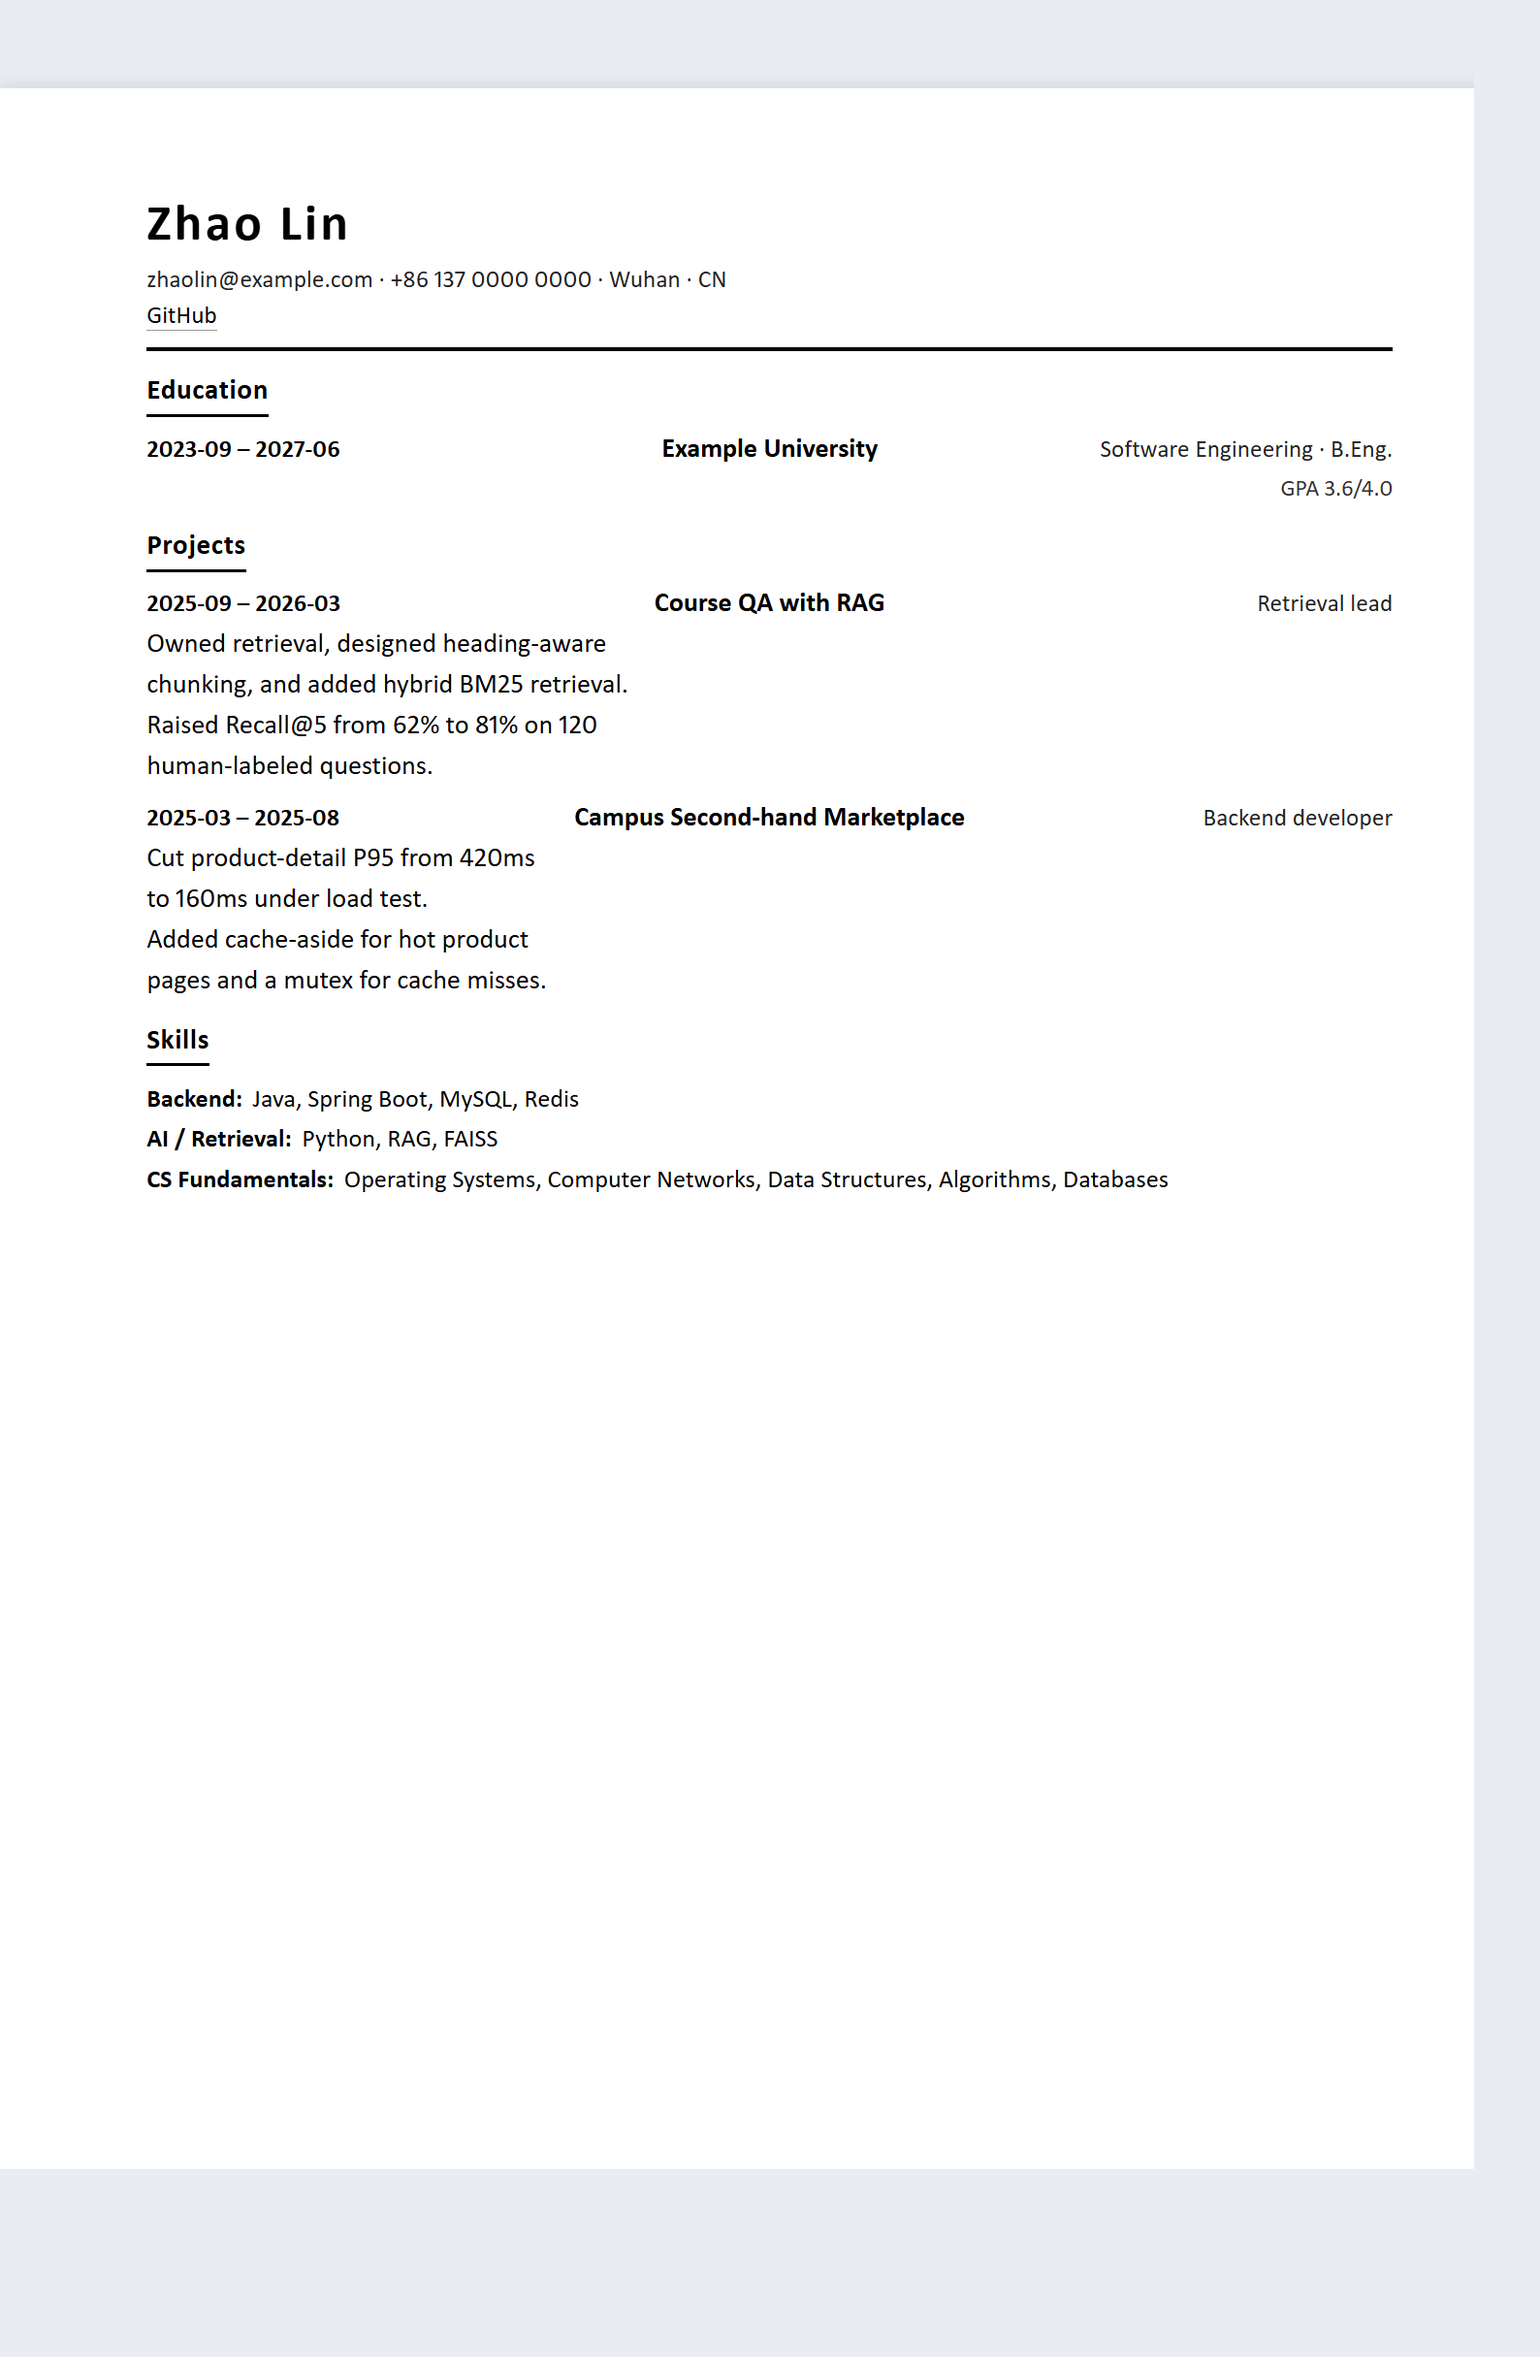
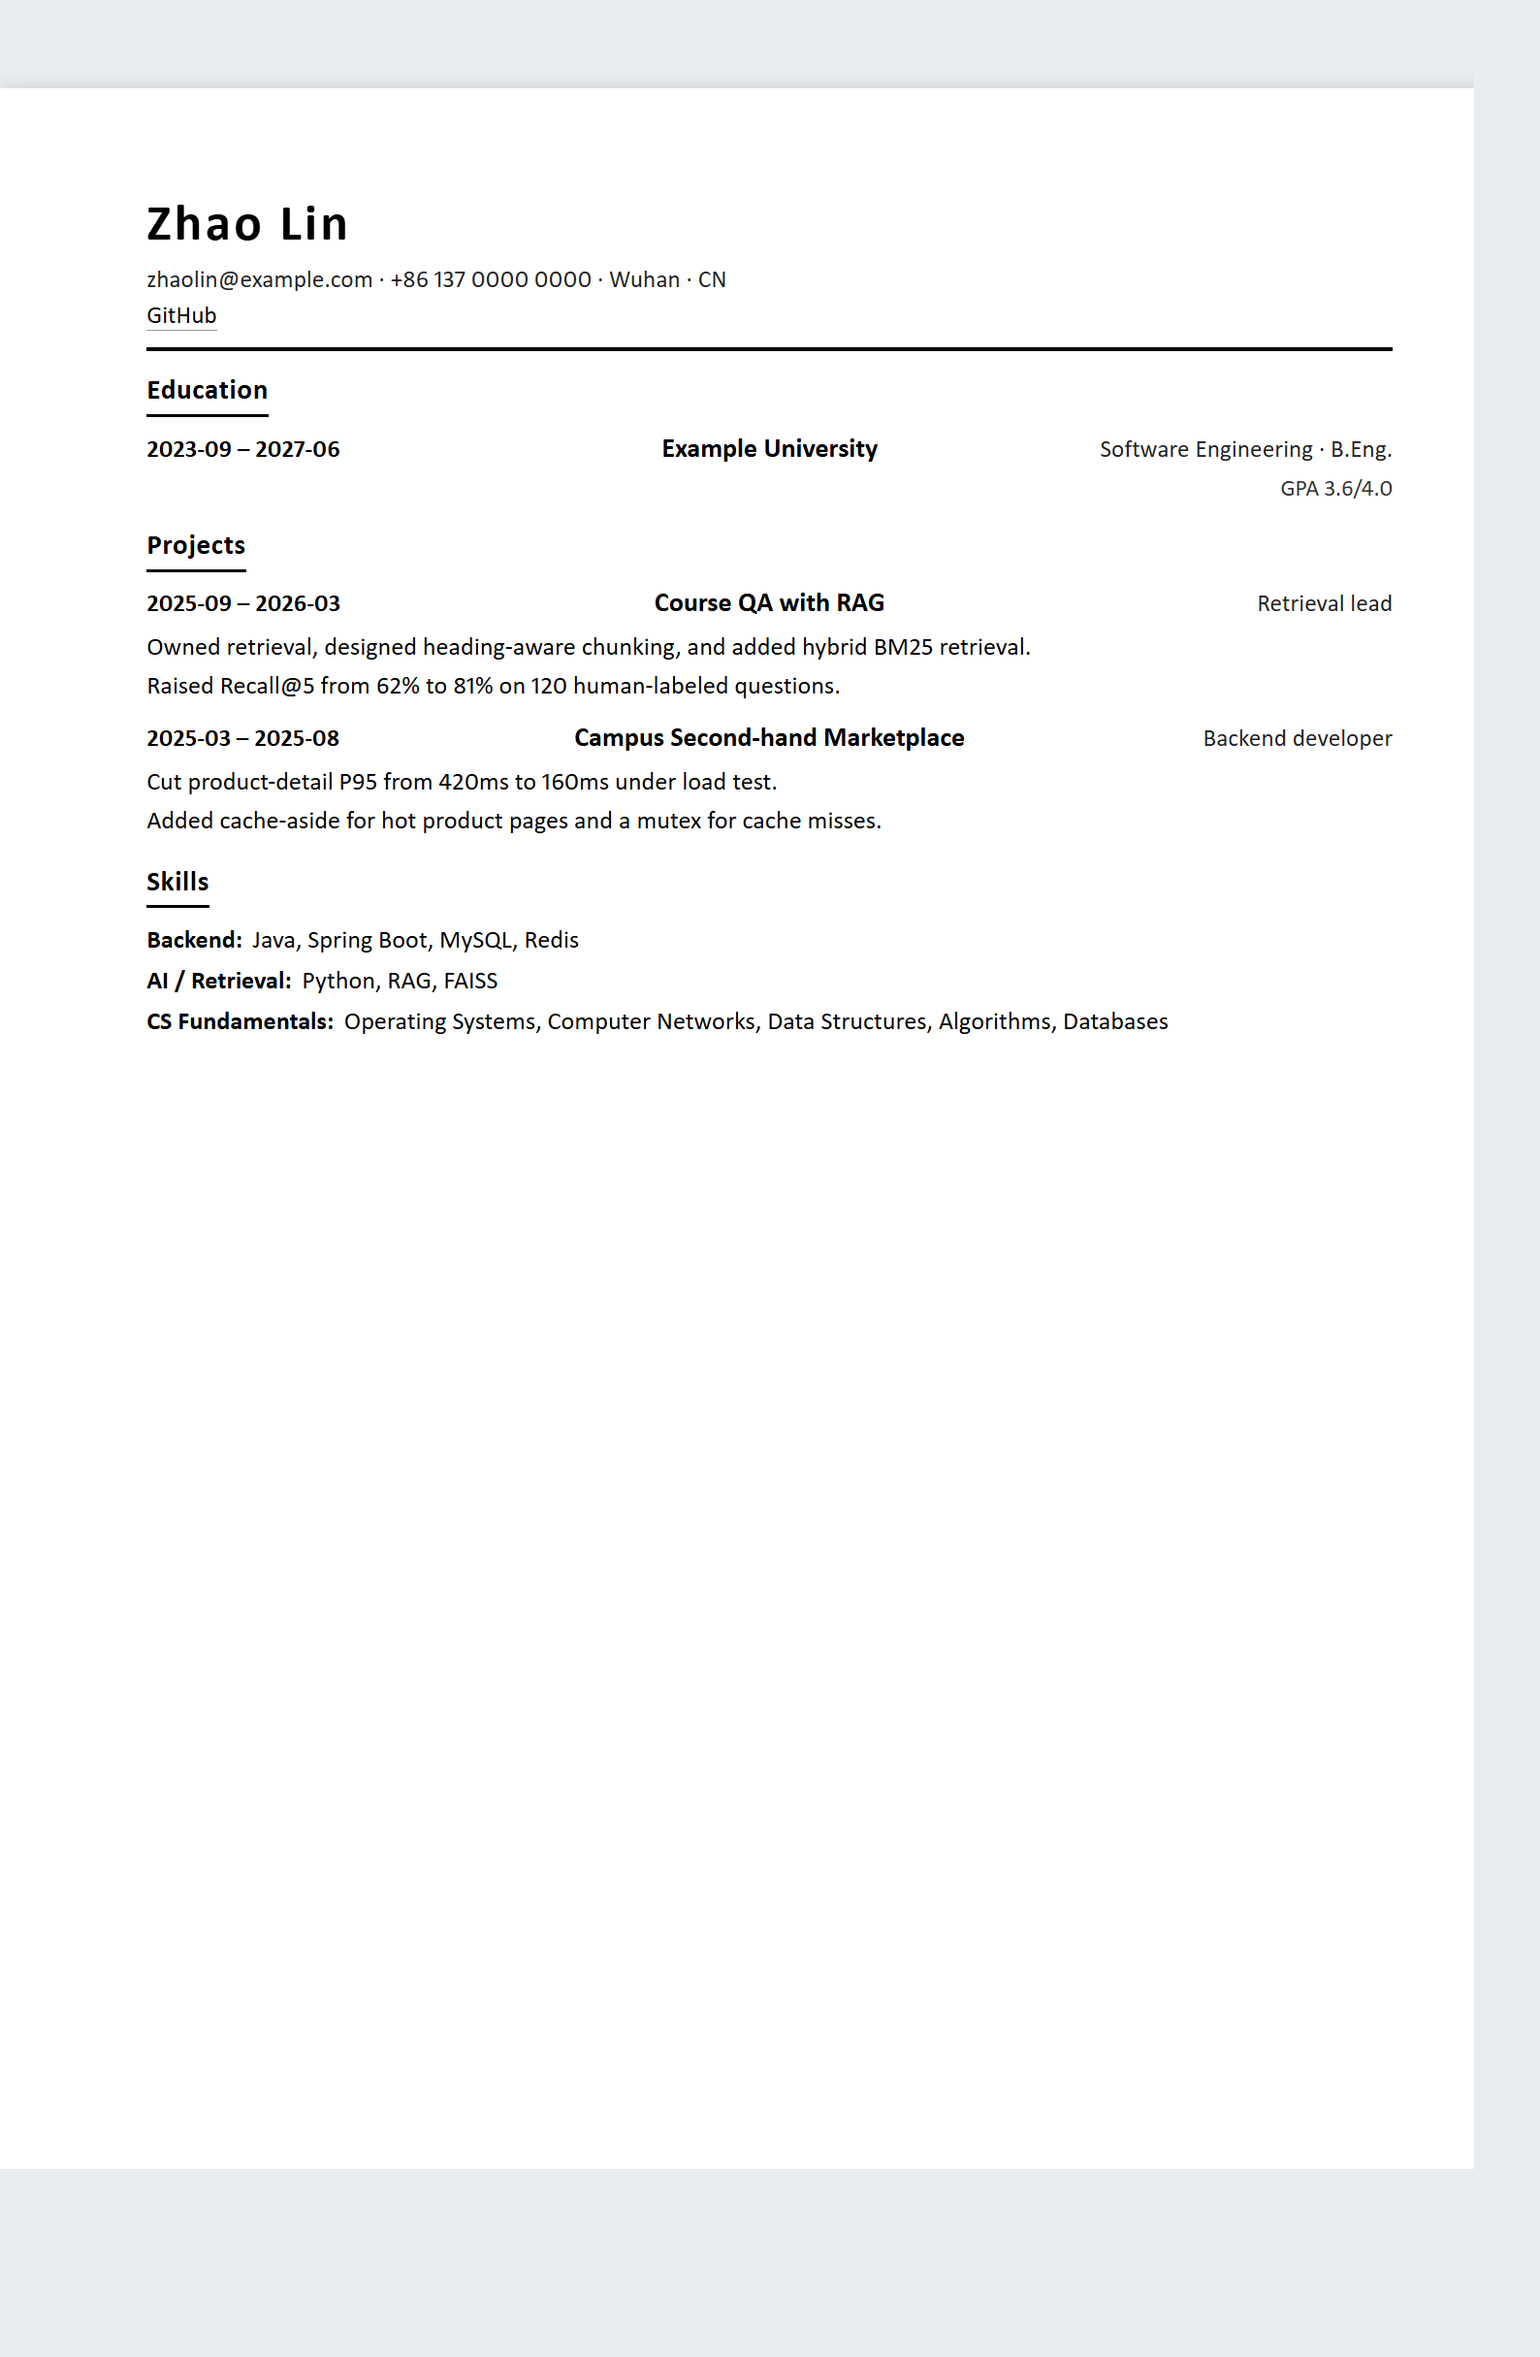
feat(skill): cover full skill capability in merged project
Rewrite the integrated employment-platform project to describe the whole
open-source skill, not just STAR packaging: evidence vault, guided
intake, sufficiency gate, six writing frameworks, twelve template
variants, content packaging and data support, project rescue, lint/QA,
JD matching, and localization. Keep the original platform's crawling,
database, RAG matching, recommendation, and trend analysis, plus the
GitHub link as a concrete result.

Widen the compact budget so a flagship project can carry a comprehensive
description, and sync template previews and README captures.

diff --git a/templates/cn/compact/preview.html b/templates/cn/compact/preview.html
@@ -91,8 +91,8 @@ a { color: var(--ink); text-decoration: none; border-bottom: 0.4pt solid #999; }
 .entry-meta { font-size: 9.5pt; white-space: nowrap; }
 .entry-sub { font-size: 9.5pt; color: var(--muted); }
 
-ul { margin: 2pt 0 0 12pt; padding: 0; }
-li { margin: 0 0 1pt; font-size: 9.8pt; line-height: 1.45; }
+.entry-lines { margin: 2pt 0 0 0; padding: 0; width: 100%; }
+.entry-line { margin: 0 0 1pt; font-size: 9.8pt; line-height: 1.45; width: 100%; }
 
 /* Centered entry headers with the date on the left. */
 .section[data-section="education"] .entry,
@@ -124,7 +124,8 @@ li { margin: 0 0 1pt; font-size: 9.8pt; line-height: 1.45; }
   grid-row: 1;
   text-align: right;
 }
-.section[data-section="projects"] ul {
+.section[data-section="experience"] .entry-lines,
+.section[data-section="projects"] .entry-lines {
   grid-column: 1 / -1;
   grid-row: 2;
 }
@@ -160,9 +161,9 @@ html[lang="en"] .skill-label::after { content: ": "; }
   margin: 0;
   padding: 0;
   font-size: 9.5pt;
-  list-style: none;
+  
 }
-.simple-list li { margin: 0; font-size: 9.5pt; }
+.simple-list .entry-line { margin: 0; font-size: 9.5pt; }
 
 @media screen {
   html { background: #e9edf2; }

diff --git a/templates/en/compact/preview.html b/templates/en/compact/preview.html
@@ -91,8 +91,8 @@ a { color: var(--ink); text-decoration: none; border-bottom: 0.4pt solid #999; }
 .entry-meta { font-size: 9.5pt; white-space: nowrap; }
 .entry-sub { font-size: 9.5pt; color: var(--muted); }
 
-ul { margin: 2pt 0 0 12pt; padding: 0; }
-li { margin: 0 0 1pt; font-size: 9.8pt; line-height: 1.45; }
+.entry-lines { margin: 2pt 0 0 0; padding: 0; width: 100%; }
+.entry-line { margin: 0 0 1pt; font-size: 9.8pt; line-height: 1.45; width: 100%; }
 
 /* Centered entry headers with the date on the left. */
 .section[data-section="education"] .entry,
@@ -124,7 +124,8 @@ li { margin: 0 0 1pt; font-size: 9.8pt; line-height: 1.45; }
   grid-row: 1;
   text-align: right;
 }
-.section[data-section="projects"] ul {
+.section[data-section="experience"] .entry-lines,
+.section[data-section="projects"] .entry-lines {
   grid-column: 1 / -1;
   grid-row: 2;
 }
@@ -160,9 +161,9 @@ html[lang="en"] .skill-label::after { content: ": "; }
   margin: 0;
   padding: 0;
   font-size: 9.5pt;
-  list-style: none;
+  
 }
-.simple-list li { margin: 0; font-size: 9.5pt; }
+.simple-list .entry-line { margin: 0; font-size: 9.5pt; }
 
 @media screen {
   html { background: #e9edf2; }

diff --git a/templates/cn/campus/preview.html b/templates/cn/campus/preview.html
@@ -71,8 +71,8 @@ a { color: inherit; text-decoration: none; }
 .entry-meta { font-size: 9.6pt; color: var(--muted); white-space: nowrap; }
 .entry-sub { font-size: 9.8pt; color: var(--muted); margin-top: 1pt; }
 
-ul { margin: 2pt 0 0 14pt; padding: 0; }
-li { margin: 1pt 0; }
+.entry-lines { margin: 2pt 0 0 14pt; padding: 0; }
+.entry-line { margin: 1pt 0; }
 .simple-list { margin: 2pt 0 0 14pt; }
 .skill-row { display: flex; gap: 6pt; margin: 2pt 0; }
 .skill-label { font-weight: 700; min-width: 72pt; color: var(--accent); }

diff --git a/templates/en/campus/preview.html b/templates/en/campus/preview.html
@@ -71,8 +71,8 @@ a { color: inherit; text-decoration: none; }
 .entry-meta { font-size: 9.6pt; color: var(--muted); white-space: nowrap; }
 .entry-sub { font-size: 9.8pt; color: var(--muted); margin-top: 1pt; }
 
-ul { margin: 2pt 0 0 14pt; padding: 0; }
-li { margin: 1pt 0; }
+.entry-lines { margin: 2pt 0 0 14pt; padding: 0; }
+.entry-line { margin: 1pt 0; }
 .simple-list { margin: 2pt 0 0 14pt; }
 .skill-row { display: flex; gap: 6pt; margin: 2pt 0; }
 .skill-label { font-weight: 700; min-width: 72pt; color: var(--accent); }

diff --git a/templates/cn/editorial/preview.html b/templates/cn/editorial/preview.html
@@ -64,8 +64,8 @@ a { color: var(--accent); text-decoration: none; }
 .entry-meta { font-size: 9.4pt; color: var(--muted); white-space: nowrap; }
 .entry-sub { font-size: 9.6pt; color: var(--muted); margin-top: 1pt; }
 
-ul { margin: 2pt 0 0 15pt; padding: 0; }
-li { margin: 1pt 0; }
+.entry-lines { margin: 2pt 0 0 15pt; padding: 0; }
+.entry-line { margin: 1pt 0; }
 .simple-list { margin: 2pt 0 0 15pt; }
 .skill-row { margin: 2pt 0; }
 .skill-label { font-weight: 700; color: var(--accent); margin-right: 5pt; }

diff --git a/templates/en/editorial/preview.html b/templates/en/editorial/preview.html
@@ -64,8 +64,8 @@ a { color: var(--accent); text-decoration: none; }
 .entry-meta { font-size: 9.4pt; color: var(--muted); white-space: nowrap; }
 .entry-sub { font-size: 9.6pt; color: var(--muted); margin-top: 1pt; }
 
-ul { margin: 2pt 0 0 15pt; padding: 0; }
-li { margin: 1pt 0; }
+.entry-lines { margin: 2pt 0 0 15pt; padding: 0; }
+.entry-line { margin: 1pt 0; }
 .simple-list { margin: 2pt 0 0 15pt; }
 .skill-row { margin: 2pt 0; }
 .skill-label { font-weight: 700; color: var(--accent); margin-right: 5pt; }

diff --git a/templates/cn/executive/preview.html b/templates/cn/executive/preview.html
@@ -55,8 +55,8 @@ a { color: inherit; text-decoration: none; }
 .entry-meta { font-size: 9.5pt; color: var(--muted); white-space: nowrap; }
 .entry-sub { font-size: 9.7pt; color: var(--muted); margin-top: 1pt; }
 
-ul { margin: 2pt 0 0 15pt; padding: 0; }
-li { margin: 1pt 0; }
+.entry-lines { margin: 2pt 0 0 15pt; padding: 0; }
+.entry-line { margin: 1pt 0; }
 .simple-list { margin: 2pt 0 0 15pt; }
 .skill-row { display: flex; gap: 6pt; margin: 2pt 0; }
 .skill-label { font-weight: 700; min-width: 110pt; }

diff --git a/templates/en/executive/preview.html b/templates/en/executive/preview.html
@@ -55,8 +55,8 @@ a { color: inherit; text-decoration: none; }
 .entry-meta { font-size: 9.5pt; color: var(--muted); white-space: nowrap; }
 .entry-sub { font-size: 9.7pt; color: var(--muted); margin-top: 1pt; }
 
-ul { margin: 2pt 0 0 15pt; padding: 0; }
-li { margin: 1pt 0; }
+.entry-lines { margin: 2pt 0 0 15pt; padding: 0; }
+.entry-line { margin: 1pt 0; }
 .simple-list { margin: 2pt 0 0 15pt; }
 .skill-row { display: flex; gap: 6pt; margin: 2pt 0; }
 .skill-label { font-weight: 700; min-width: 110pt; }

diff --git a/templates/cn/ats-classic/preview.html b/templates/cn/ats-classic/preview.html
@@ -69,8 +69,8 @@ a { color: inherit; text-decoration: none; }
 .entry-meta { font-size: 9.8pt; color: var(--muted); white-space: nowrap; }
 .entry-sub { font-size: 9.8pt; color: var(--muted); margin-top: 1pt; }
 
-ul { margin: 2pt 0 0 14pt; padding: 0; }
-li { margin: 1pt 0; }
+.entry-lines { margin: 2pt 0 0 14pt; padding: 0; }
+.entry-line { margin: 1pt 0; }
 .simple-list { margin: 2pt 0 0 14pt; }
 .skill-row { display: flex; gap: 6pt; margin: 2pt 0; }
 .skill-label { font-weight: 700; min-width: 92pt; }

diff --git a/templates/cn/modern-sidebar/preview.html b/templates/cn/modern-sidebar/preview.html
@@ -86,8 +86,8 @@ a { color: var(--accent); text-decoration: none; }
 .entry-meta { font-size: 9pt; color: var(--muted); white-space: nowrap; }
 .entry-sub { font-size: 9.2pt; color: var(--muted); margin-top: 1pt; }
 
-ul { margin: 2pt 0 0 13pt; padding: 0; }
-li { margin: 1pt 0; }
+.entry-lines { margin: 2pt 0 0 13pt; padding: 0; }
+.entry-line { margin: 1pt 0; }
 .simple-list { margin: 2pt 0 0 12pt; }
 .skill-row { margin: 2pt 0; }
 .skill-label { display: block; font-weight: 700; color: var(--accent); }

diff --git a/templates/en/ats-classic/preview.html b/templates/en/ats-classic/preview.html
@@ -69,8 +69,8 @@ a { color: inherit; text-decoration: none; }
 .entry-meta { font-size: 9.8pt; color: var(--muted); white-space: nowrap; }
 .entry-sub { font-size: 9.8pt; color: var(--muted); margin-top: 1pt; }
 
-ul { margin: 2pt 0 0 14pt; padding: 0; }
-li { margin: 1pt 0; }
+.entry-lines { margin: 2pt 0 0 14pt; padding: 0; }
+.entry-line { margin: 1pt 0; }
 .simple-list { margin: 2pt 0 0 14pt; }
 .skill-row { display: flex; gap: 6pt; margin: 2pt 0; }
 .skill-label { font-weight: 700; min-width: 92pt; }

diff --git a/templates/en/modern-sidebar/preview.html b/templates/en/modern-sidebar/preview.html
@@ -86,8 +86,8 @@ a { color: var(--accent); text-decoration: none; }
 .entry-meta { font-size: 9pt; color: var(--muted); white-space: nowrap; }
 .entry-sub { font-size: 9.2pt; color: var(--muted); margin-top: 1pt; }
 
-ul { margin: 2pt 0 0 13pt; padding: 0; }
-li { margin: 1pt 0; }
+.entry-lines { margin: 2pt 0 0 13pt; padding: 0; }
+.entry-line { margin: 1pt 0; }
 .simple-list { margin: 2pt 0 0 12pt; }
 .skill-row { margin: 2pt 0; }
 .skill-label { display: block; font-weight: 700; color: var(--accent); }
